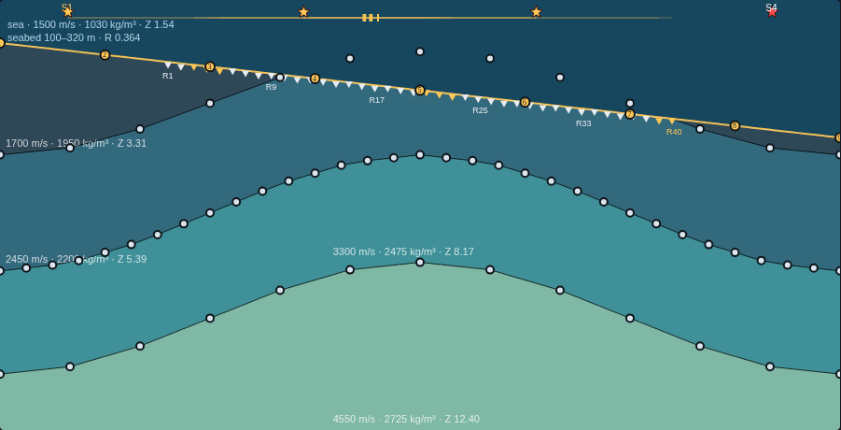
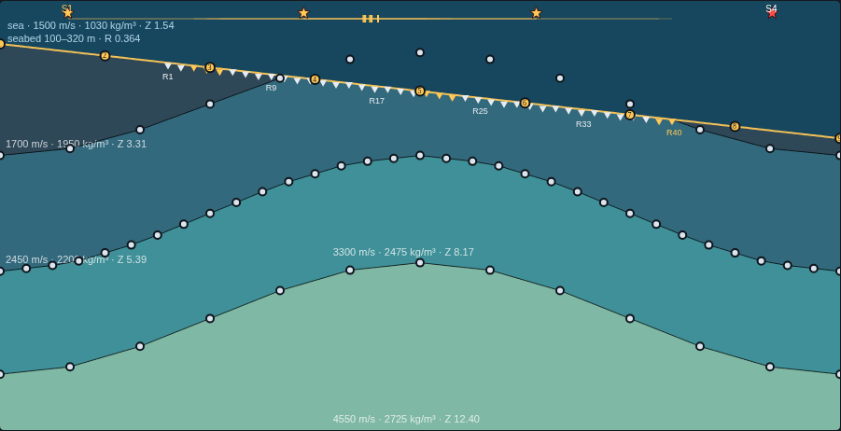
Let the wavefield drain after the last shot, add a survey schematic
The leftover wavefield was mostly a display artefact. The wavefield
panel renormalises every frame against that frame's own maximum, so
however weak the residual got it was redrawn at full brightness -
it looked as strong as the wavefront and never appeared to leave.

Fixed on both sides. The kernel now records only while the trace has
room, so stepping can continue past the last recorded sample: the final
shot runs a 0.45 s tail during which the field drains into the sponge
for real (measured: field RMS falls to 0.24 of peak). And while that
tail runs the display scale is pinned to the amplitude at the moment
recording stopped, so the decay reads as a decay instead of being
normalised away. The sponge cannot clear every corner in 0.45 s, so a
display ramp over the final stretch takes it to exactly zero rather
than stopping on a faint residue - that part is cosmetic and says so.

When acquisition ends or is cancelled the field is cleared outright,
which matters for a subtle reason: once the settle stops gating the
display, per-frame normalisation would pull the decayed residual back
up to full brightness, reinstating the original problem.

Traces are unaffected - they stay exactly nt samples and the worker
still produces the same checksum it did before the kernel change.

Second change: a live survey schematic above the wavefield panel. The
physics panel never showed which shot was firing or which receivers it
[…]

diff --git a/wave_sandbox.html b/wave_sandbox.html
@@ -252,6 +252,11 @@
     </div>
 
     <section id="stageAcquisition" class="stage on">
+      <div class="panel" style="margin-bottom:12px">
+        <p class="ttl">Survey schematic — what is being recorded right now</p>
+        <canvas id="acqSchematic" class="wide" width="1040" height="158" aria-label="Live survey schematic showing the shot line and the spread the active shot records into"></canvas>
+        <div class="hint" id="acqSchematicInfo">Add shots and receivers, then run acquisition.</div>
+      </div>
       <div class="stage-grid">
         <div class="panel model-panel">
           <p class="ttl">Velocity model, wavefield &amp; surface geometry</p>
@@ -728,6 +733,18 @@ const solverChannel=new MessageChannel();
 let nmoDisplayGain=2.5,nmoDensity=true,showExactMoveout=true;
 let wavefieldBoost=false;
 let workerActive=false;
+/* Stepping continues past the last recorded sample of the FINAL shot so the
+   wavefield drains into the sponge rather than freezing mid-flight. Two numbers
+   drive it: how many steps this shot runs in total, and the step at which
+   recording stopped. */
+let stepsThisShot=0,settleFrom=0,wavefieldReference=0;
+const SETTLE_SECONDS=.45;
+function settleSteps(){return dt>0?Math.round(SETTLE_SECONDS/dt):0;}
+function isSettling(){return (running||paused)&&settleFrom>0&&it>settleFrom;}
+function settleProgress(){
+  const span=stepsThisShot-settleFrom;
+  return span>0?Math.max(0,Math.min(1,(it-settleFrom)/span)):1;
+}
 /* A perfectly reflecting (p = 0) top row is a free surface: it returns R = -1
    and therefore generates the source ghost and free-surface multiples that
    dominate real records. Switching it to a first-order Mur absorbing condition
@@ -795,6 +812,7 @@ function setup(){
   syncActiveReceivers();
   traces = activeReceivers.map(()=> new Float32Array(nt));
   it=0; maxAmp=1e-9; sembDirty=true;
+  stepsThisShot=nt; settleFrom=nt; wavefieldReference=0;
   rebuildFdState();
 }
 
@@ -807,12 +825,15 @@ function resetShotSimulation(){
   syncActiveReceivers();
   traces=activeReceivers.map(()=>new Float32Array(nt));
   it=0;maxAmp=1e-9;sembDirty=true;
+  stepsThisShot=nt; settleFrom=nt; wavefieldReference=0;
   rebuildFdState();
 }
 
 function initializeShotSimulation(shot){
   src={i:shot.i,j:SURF}; activeShotId=shot.id;
   resetShotSimulation();
+  // Only the last shot settles; the others cut straight to the next source.
+  if(queueIndex>=acquisitionQueue.length-1)stepsThisShot=nt+settleSteps();
   document.getElementById('activeShotInfo').textContent=
     `Shot ${queueIndex+1} of ${acquisitionQueue.length} · S${shot.id} · x = ${(shot.i*DX).toFixed(0)} m`;
 }
@@ -966,15 +987,20 @@ function fdKernel(state){
   // Causal Ricker, inlined so the kernel stays free of outer bindings.
   const phase=Math.PI*state.f0*(state.it*state.dt-1.1/state.f0),phase2=phase*phase;
   next[state.srcIdx]+=(1-2*phase2)*Math.exp(-phase2)*3e4;
-  const recIdx=state.recIdx,traces=state.traces;
-  let maxAmp=state.maxAmp;
-  for(let n=0;n<recIdx.length;n++){
-    const v=next[recIdx[n]];
-    traces[n][state.it]=v;
-    const m=v<0?-v:v;
-    if(m>maxAmp)maxAmp=m;
+  // Recording stops when the trace is full, but stepping may continue: after
+  // the last shot the field is allowed to keep propagating so its energy
+  // actually leaves through the sponge instead of freezing mid-flight.
+  if(state.it<state.recordUntil){
+    const recIdx=state.recIdx,traces=state.traces;
+    let maxAmp=state.maxAmp;
+    for(let n=0;n<recIdx.length;n++){
+      const v=next[recIdx[n]];
+      traces[n][state.it]=v;
+      const m=v<0?-v:v;
+      if(m>maxAmp)maxAmp=m;
+    }
+    state.maxAmp=maxAmp;
   }
-  state.maxAmp=maxAmp;
   state.p0=current;state.p1=next;state.p2=previous;
   state.it++;
 }
@@ -990,7 +1016,7 @@ function rebuildFdState(){
   fdState={c:fdCenter,q:fdPrevious,xp:fdXp,xm:fdXm,zp:fdZp,zm:fdZm,
     NX,NZ,OX,MX,DX,dt,f0,topVp:vp.subarray(0,NX),
     freeSurface:topBoundary==='free',
-    srcIdx:simIdx(src.i,src.j),recIdx,traces,
+    srcIdx:simIdx(src.i,src.j),recIdx,traces,recordUntil:nt,
     p0,p1,p2,it,maxAmp};
 }
 
@@ -1020,6 +1046,15 @@ const wfCtx = wfTmp.getContext('2d');
    drawModel keeps a single code path either way. */
 const wfFrame=new Float32Array(MX*MZ);
 let wfFrameLive=false;
+/* Acquisition is over, so the panel is no longer showing a live field. The
+   pressure history is scratch for the next shot -- resetShotSimulation zeroes
+   it anyway -- so clearing it here simply stops a spent wavefield lingering. */
+function clearWavefieldDisplay(){
+  if(p0){p0.fill(0);p1.fill(0);p2.fill(0);}
+  wfFrame.fill(0);wfFrameLive=false;
+  settleFrom=0;wavefieldReference=0;
+}
+
 function captureWavefieldFrame(){
   if(workerActive)return wfFrameLive;
   if(!p1)return false;
@@ -1084,7 +1119,18 @@ function drawModel(){
     // not dim the model-wide wavefield display for interior shots.
     let wavefieldAmp=1e-9;
     for(let j=0;j<MZ;j+=2) for(let i=0;i<MX;i+=2) wavefieldAmp=Math.max(wavefieldAmp,Math.abs(wfFrame[j*MX+i]));
-    const scale = 1/wavefieldAmp;
+    /* Per-frame normalisation is what made the leftover field look as strong as
+       the wavefront: however weak it got, it was redrawn at full brightness.
+       While settling the scale is pinned to the amplitude at the moment
+       recording stopped, so the decay reads as a decay. */
+    const settling=isSettling();
+    if(settling){if(!wavefieldReference)wavefieldReference=wavefieldAmp;}
+    else wavefieldReference=0;
+    const scale = 1/(settling?wavefieldReference:wavefieldAmp);
+    /* The sponge does the real work, but 0.45 s is not long enough to clear
+       every corner, so a display ramp over the final stretch takes it to
+       exactly zero rather than stopping on a faint residue. */
+    const settleFade=settling?Math.max(0,Math.min(1,(1-settleProgress())/.4)):1;
     // Gamma 0.45 maps a peak of 1 back to 1 while lifting 0.01 to 0.12, so weak
     // reflected and transmitted energy becomes visible without the strong
     // direct wave clipping to a flat blob. The alpha ramp is eased to match.
@@ -1094,7 +1140,7 @@ function drawModel(){
       for(let i=0;i<MX;i++){
         // Gamma compression (the "boost" toggle) lifts weak reflected and
         // scattered energy into view beside the saturating direct wave.
-        const u=wfFrame[drow+i]*scale;
+        const u=wfFrame[drow+i]*scale*settleFade;
         const v=Math.max(-1,Math.min(1,boost?Math.sign(u)*Math.pow(Math.abs(u),.45):u*2));
         const a=Math.min(255, Math.abs(v)*alphaScale);
         const o=(drow+i)*4;
@@ -1163,7 +1209,7 @@ function drawGather(){
   const dxTr=pw/n;
   const displayAmax=robustTraceArrayAmplitude(traces.slice(0,n));
   const amp=dxTr*1.6/Math.max(displayAmax,1e-9);
-  const shown = running? it : nt;
+  const shown = running? Math.min(it,nt) : nt;
 
   // time axis
   gc.strokeStyle='#232a33'; gc.fillStyle='#8a949f';
@@ -1219,7 +1265,7 @@ function drawGray(){
   if(!traces||!n||pw<1||ph<1) return;
   if(!grImg||grImg.width!==pw||grImg.height!==ph) grImg=grc.createImageData(pw,ph);
   const d=grImg.data;
-  const shown = running? it : nt;
+  const shown = running? Math.min(it,nt) : nt;
   const scale = 1/Math.max(robustTraceArrayAmplitude(traces.slice(0,n)),1e-9);
   for(let y=0;y<ph;y++){
     // map pixel row -> sample index
@@ -1633,6 +1679,112 @@ function refreshReceiverControls(){
   selectedReceiverId=catalog.some(entry=>entry.id===old)?old:(catalog[0]?.id??null);if(selectedReceiverId!==null)select.value=selectedReceiverId;
 }
 
+/* ---------------- live survey schematic ---------------- */
+/* The wavefield panel shows the physics but not the survey: which shot is
+   firing, where it sits on the line, and which receivers it is recording into.
+   In streamer mode the spread moves with every shot, so without this the fold
+   pattern that appears later has no visible cause. Drawn from the same geometry
+   the solver uses, so it cannot disagree with what is being recorded. */
+function schematicFocusShot(){
+  if((running||paused)&&activeShotId!==null){
+    const active=shotPositions.find(shot=>shot.id===activeShotId);
+    if(active)return active;
+  }
+  return shotPositions.find(shot=>shot.id===selectedShotId)||shotPositions[0]||null;
+}
+
+function drawAcquisitionSchematic(){
+  const cv=document.getElementById('acqSchematic');
+  if(!cv)return;
+  const ctx=cv.getContext('2d'),W=cv.width,H=cv.height,info=document.getElementById('acqSchematicInfo');
+  ctx.fillStyle='#0b0e12';ctx.fillRect(0,0,W,H);
+  ctx.font='11px ui-sans-serif,system-ui,sans-serif';
+  const plotL=104,plotR=W-16,pw=plotR-plotL,modelWidth=MX*DX;
+  const xMap=metres=>plotL+Math.max(0,Math.min(1,metres/modelWidth))*pw;
+  const sourceY=52,receiverY=104,axisY=132;
+
+  if(!shotPositions.length){
+    ctx.fillStyle='#8a949f';ctx.fillText('No shots placed — use the source presets, or the Add Shot tool.',plotL,sourceY);
+    info.textContent='Add shots and receivers, then run acquisition.';
+    return;
+  }
+  const focus=schematicFocusShot(),layout=focus?receiverLayoutForShot(focus):[];
+
+  // water column, so the marine case reads as marine at a glance
+  if(isOffshore()){
+    ctx.fillStyle='rgba(23,71,94,.55)';ctx.beginPath();ctx.moveTo(plotL,18);ctx.lineTo(plotR,18);
+    for(let k=40;k>=0;k--){
+      const x=k/40,depth=seabedFractionAt(x)*MZ*DX;
+      ctx.lineTo(plotL+x*pw,18+Math.min(58,depth/400*58));
+    }
+    ctx.closePath();ctx.fill();
+    ctx.strokeStyle='rgba(140,215,255,.7)';ctx.lineWidth=1.2;ctx.beginPath();
+    for(let k=0;k<=40;k++){
+      const x=k/40,depth=seabedFractionAt(x)*MZ*DX,y=18+Math.min(58,depth/400*58);
+      k?ctx.lineTo(plotL+x*pw,y):ctx.moveTo(plotL+x*pw,y);
+    }
+    ctx.stroke();
+    ctx.fillStyle='rgba(150,205,235,.85)';ctx.fillText('sea',plotL+4,30);
+  }
+
+  // the offset fan: which receivers this shot is recording into
+  if(focus&&layout.length){
+    const stride=Math.max(1,Math.round(layout.length/14));
+    ctx.strokeStyle='rgba(255,200,87,.30)';ctx.lineWidth=1;
+    ctx.beginPath();
+    for(let k=0;k<layout.length;k+=stride){
+      ctx.moveTo(xMap(focus.i*DX),sourceY+7);ctx.lineTo(xMap(layout[k].i*DX),receiverY-7);
+    }
+    ctx.stroke();
+  }
+
+  // lines
+  ctx.strokeStyle='#2a333c';ctx.lineWidth=1;
+  ctx.beginPath();ctx.moveTo(plotL,sourceY);ctx.lineTo(plotR,sourceY);
+  ctx.moveTo(plotL,receiverY);ctx.lineTo(plotR,receiverY);ctx.stroke();
+
+  // sources: acquired, pending, and the one firing now
+  shotPositions.forEach(shot=>{
+    const x=xMap(shot.i*DX),done=shotRecords.some(record=>record.id===shot.id);
+    const active=(running||paused)&&shot.id===activeShotId;
+    ctx.fillStyle=active?'#ffc857':done?'#ff6b6b':'rgba(255,107,107,.32)';
+    ctx.beginPath();
+    for(let k=0;k<10;k++){const a=-Math.PI/2+k*Math.PI/5,rr=k%2?2.6:6;k?ctx.lineTo(x+Math.cos(a)*rr,sourceY+Math.sin(a)*rr):ctx.moveTo(x+Math.cos(a)*rr,sourceY+Math.sin(a)*rr);}
+    ctx.closePath();ctx.fill();
+    if(active){ctx.strokeStyle='#ffe4a2';ctx.lineWidth=1.5;ctx.beginPath();ctx.arc(x,sourceY,11,0,Math.PI*2);ctx.stroke();}
+  });
+
+  // the spread this shot records into
+  layout.forEach(receiver=>{
+    const x=xMap(receiver.i*DX);
+    ctx.fillStyle='#7fd3ff';
+    ctx.beginPath();ctx.moveTo(x,receiverY+5);ctx.lineTo(x-4,receiverY-3);ctx.lineTo(x+4,receiverY-3);ctx.closePath();ctx.fill();
+  });
+
+  // distance axis
+  ctx.strokeStyle='#3a444f';ctx.beginPath();ctx.moveTo(plotL,axisY);ctx.lineTo(plotR,axisY);ctx.stroke();
+  ctx.fillStyle='#65717e';ctx.textAlign='center';
+  for(let metres=0;metres<=modelWidth;metres+=200){
+    const x=xMap(metres);
+    ctx.beginPath();ctx.moveTo(x,axisY-4);ctx.lineTo(x,axisY+4);ctx.stroke();
+    ctx.fillText(String(metres),x,axisY+16);
+  }
+  ctx.textAlign='left';
+
+  ctx.fillStyle='#8a949f';ctx.font='10px ui-sans-serif,system-ui,sans-serif';
+  ctx.fillText('SHOT LINE',8,sourceY+3);
+  ctx.fillText(acquisitionMode()==='streamer'?'STREAMER':isOffshore()?'SEABED NODES':'PLANTED SPREAD',8,receiverY+3);
+  ctx.fillText('surface x (m)',8,axisY+16);
+
+  const acquired=shotRecords.length,total=shotPositions.length;
+  if(!focus||!layout.length){info.textContent=`${acquired} of ${total} shots acquired · no receivers for this shot.`;return;}
+  const offsets=layout.map(receiver=>(receiver.i-focus.i)*DX);
+  const near=Math.min(...offsets.map(Math.abs)),far=Math.max(...offsets.map(Math.abs));
+  const position=(running||paused)?`Firing shot ${queueIndex+1} of ${acquisitionQueue.length}`:`Shot S${focus.id} selected`;
+  info.textContent=`${position} · source at ${(focus.i*DX).toFixed(0)} m · ${layout.length} live channels · offsets ${near.toFixed(0)}–${far.toFixed(0)} m · `+
+    `${acquired}/${total} shots acquired${isSettling()?' · wavefield draining':''}`;
+}
+
 function drawAcquisitionViews(){
   const shotRecordsView=acquisitionTraces.filter(t=>t.shotId===selectedShotId);
   drawTraceGather(document.getElementById('acqGather'),shotRecordsView,{axis:document.getElementById('shotAxis').value,empty:'Select a completed shot'});
@@ -1644,7 +1796,7 @@ function drawAcquisitionViews(){
   if(spectrumViewVisible())drawSpectrum();
 }
 
-function renderModelFrame(){mc.clearRect(0,0,CW,CH);drawModel();}
+function renderModelFrame(){mc.clearRect(0,0,CW,CH);drawModel();drawAcquisitionSchematic();}
 function render(){renderModelFrame();drawGather();drawGray();if(currentStage==='nmo')drawNmo();}
 
 /* Canvas drawing was formerly performed after every solver batch. At 4x and
@@ -2458,10 +2610,10 @@ onmessage=function(e){
     job=m;paused=false;cancelled=false;credit=0;clock=performance.now();lastField=0;lastTraces=0;
     const n=g.NX*g.NZ;
     const p0=new Float32Array(n),p1=new Float32Array(n),p2=new Float32Array(n);
-    traces=[];for(let k=0;k<m.recIdx.length;k++)traces.push(new Float32Array(m.nt));
+    traces=[];for(let k=0;k<m.recIdx.length;k++)traces.push(new Float32Array(m.recordUntil));
     state={c:g.c,q:g.q,xp:g.xp,xm:g.xm,zp:g.zp,zm:g.zm,
       NX:g.NX,NZ:g.NZ,OX:g.OX,MX:g.MX,DX:g.DX,dt:m.dt,f0:m.f0,topVp:g.topVp,
-      freeSurface:m.freeSurface,srcIdx:m.srcIdx,recIdx:m.recIdx,traces,
+      freeSurface:m.freeSurface,srcIdx:m.srcIdx,recIdx:m.recIdx,traces,recordUntil:m.recordUntil,
       p0,p1,p2,it:0,maxAmp:1e-9};
     schedule(0);return;
   }
@@ -2520,7 +2672,8 @@ function postSolverShot(){
   const recIdx=new Int32Array(activeReceivers.length);
   activeReceivers.forEach((r,n)=>{recIdx[n]=simIdx(r.i,r.j);});
   workerLastIt=0;
-  solverWorker.postMessage({type:'shot',srcIdx:simIdx(src.i,src.j),recIdx,nt,dt,f0,
+  solverWorker.postMessage({type:'shot',srcIdx:simIdx(src.i,src.j),recIdx,
+    nt:stepsThisShot,recordUntil:nt,dt,f0,
     freeSurface:topBoundary==='free',speed:simulationSpeed},[recIdx.buffer]);
   return true;
 }
@@ -2539,7 +2692,7 @@ function onSolverWorkerMessage(e){
   if(m.type==='done'){
     // finalizeShot takes ownership of these arrays; the next shot allocates
     // fresh ones, so no second copy of the samples is ever made.
-    traces=m.traces;maxAmp=m.maxAmp;it=nt;
+    traces=m.traces;maxAmp=m.maxAmp;it=stepsThisShot;
     if(finishCurrentShot(performance.now()))postSolverShot();
     else workerActive=false;
   }
@@ -2572,6 +2725,7 @@ solverChannel.port1.onmessage=()=>{solverTimer=null;solverPump();};
 
 function cancelAcquisitionNow(){
   running=false;paused=false;cancelRequested=false;acquisitionQueue=[];activeShotId=null;solverCredit=0;workerActive=false;
+  clearWavefieldDisplay();
   document.getElementById('pauseAcq').textContent='Pause';
   document.getElementById('stat').textContent='acquisition cancelled';
   buildCmpBins(false);refreshShotGallery();refreshReceiverControls();updateFlow();render();
@@ -2582,6 +2736,7 @@ function finishCurrentShot(now){
   if(queueIndex<acquisitionQueue.length){initializeShotSimulation(acquisitionQueue[queueIndex]);return true;}
   const averageSpeed=measuredPropagationSpeed(now);
   running=false;activeShotId=null;solverCredit=0;document.getElementById('acqProgress').style.width='100%';
+  clearWavefieldDisplay();
   document.getElementById('pauseAcq').textContent='Pause';
   document.getElementById('stat').textContent=`Acquisition complete · ${shotRecords.length} shot gather${shotRecords.length===1?'':'s'} stored · measured ${averageSpeed.toFixed(1)}×`;
   document.getElementById('activeShotInfo').textContent='All queued shots complete. Select a card, receiver, or build CMP gathers.';
@@ -2605,7 +2760,7 @@ function solverPump(){
   const budgetMs=simulationSpeed<=1?5:simulationSpeed<=2?8:simulationSpeed<=4?24:simulationSpeed<=8?48:80;
   while(running&&!paused&&!cancelRequested&&solverCredit>=1&&performance.now()-start<budgetMs){
     step();perfSteps++;solverCredit--;
-    if(it>=nt&&!finishCurrentShot(performance.now()))break;
+    if(it>=stepsThisShot&&!finishCurrentShot(performance.now()))break;
   }
   if(!running)return;
   if(cancelRequested){cancelAcquisitionNow();return;}
@@ -2617,8 +2772,10 @@ function frame(now=performance.now()){
   if(running){
     if(!paused){
       const updateStatus=updatePropagationReadout(now),shot=acquisitionQueue[queueIndex];
-      if(shot&&updateStatus){
-        const pct=100*(queueIndex+it/Math.max(1,nt))/Math.max(1,acquisitionQueue.length);
+      if(shot&&updateStatus&&isSettling()){
+        document.getElementById('stat').textContent=`Last shot recorded · letting the wavefield drain into the absorbing boundary · ${(settleProgress()*100).toFixed(0)}%`;
+      }else if(shot&&updateStatus){
+        const pct=100*(queueIndex+Math.min(1,it/Math.max(1,stepsThisShot)))/Math.max(1,acquisitionQueue.length);
         document.getElementById('stat').textContent=`Shot ${queueIndex+1} / ${acquisitionQueue.length} · x = ${(shot.i*DX).toFixed(0)} m · t = ${(it*dt).toFixed(3)} s · ${pct.toFixed(0)}% · target ${simulationSpeed}× · measured ${measuredPropagationSpeed(now).toFixed(1)}×`;
         document.getElementById('acqProgress').style.width=`${pct}%`;document.querySelector('.progress').setAttribute('aria-valuenow',Math.round(pct));
       }
